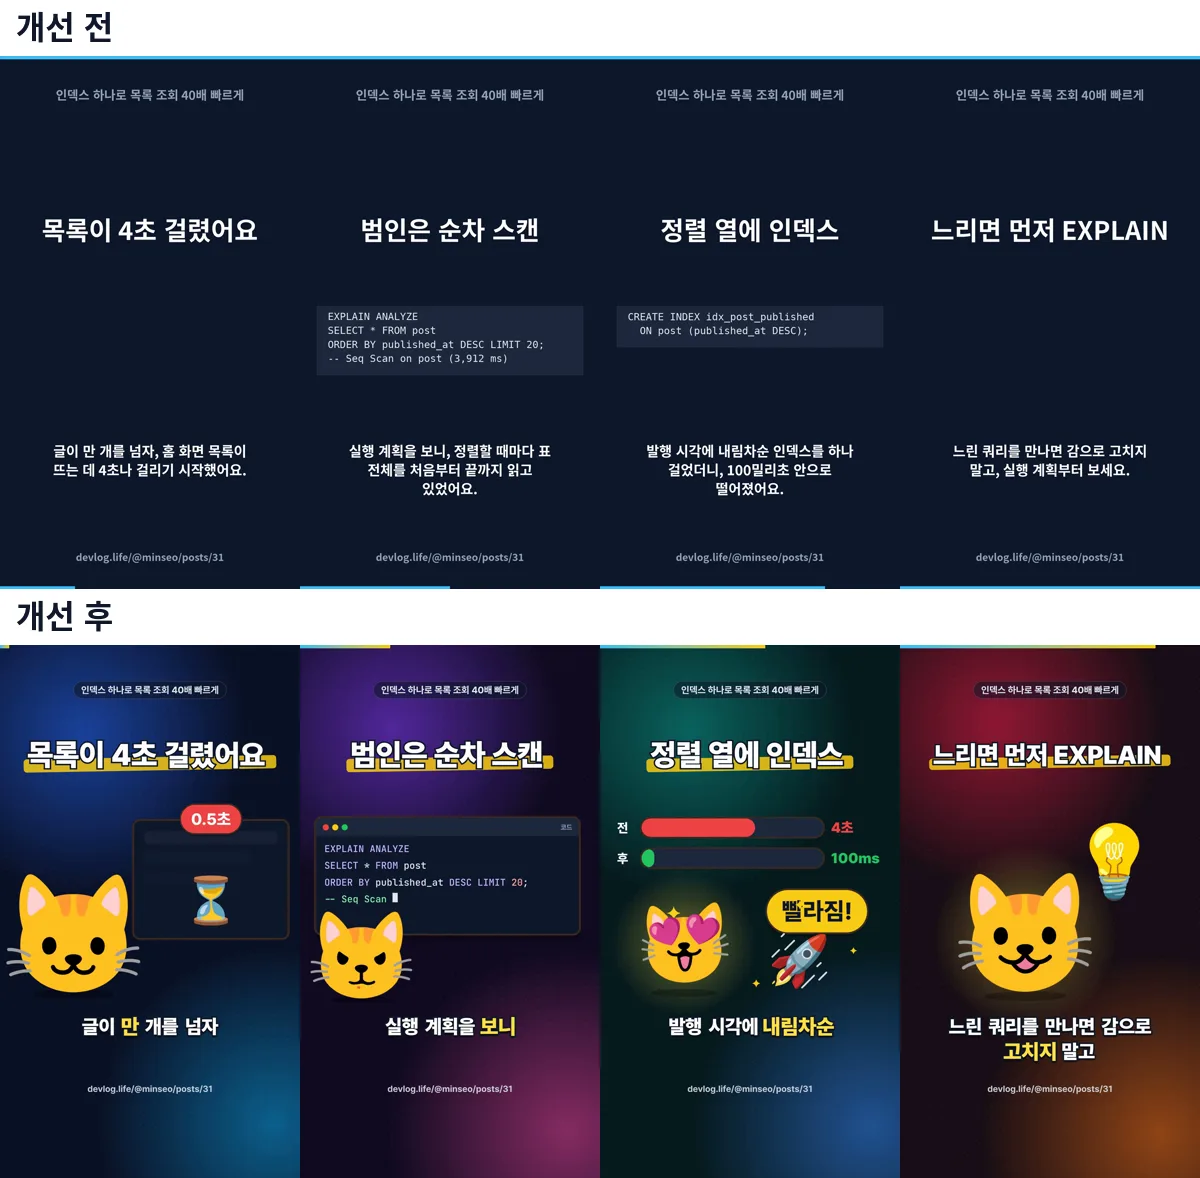
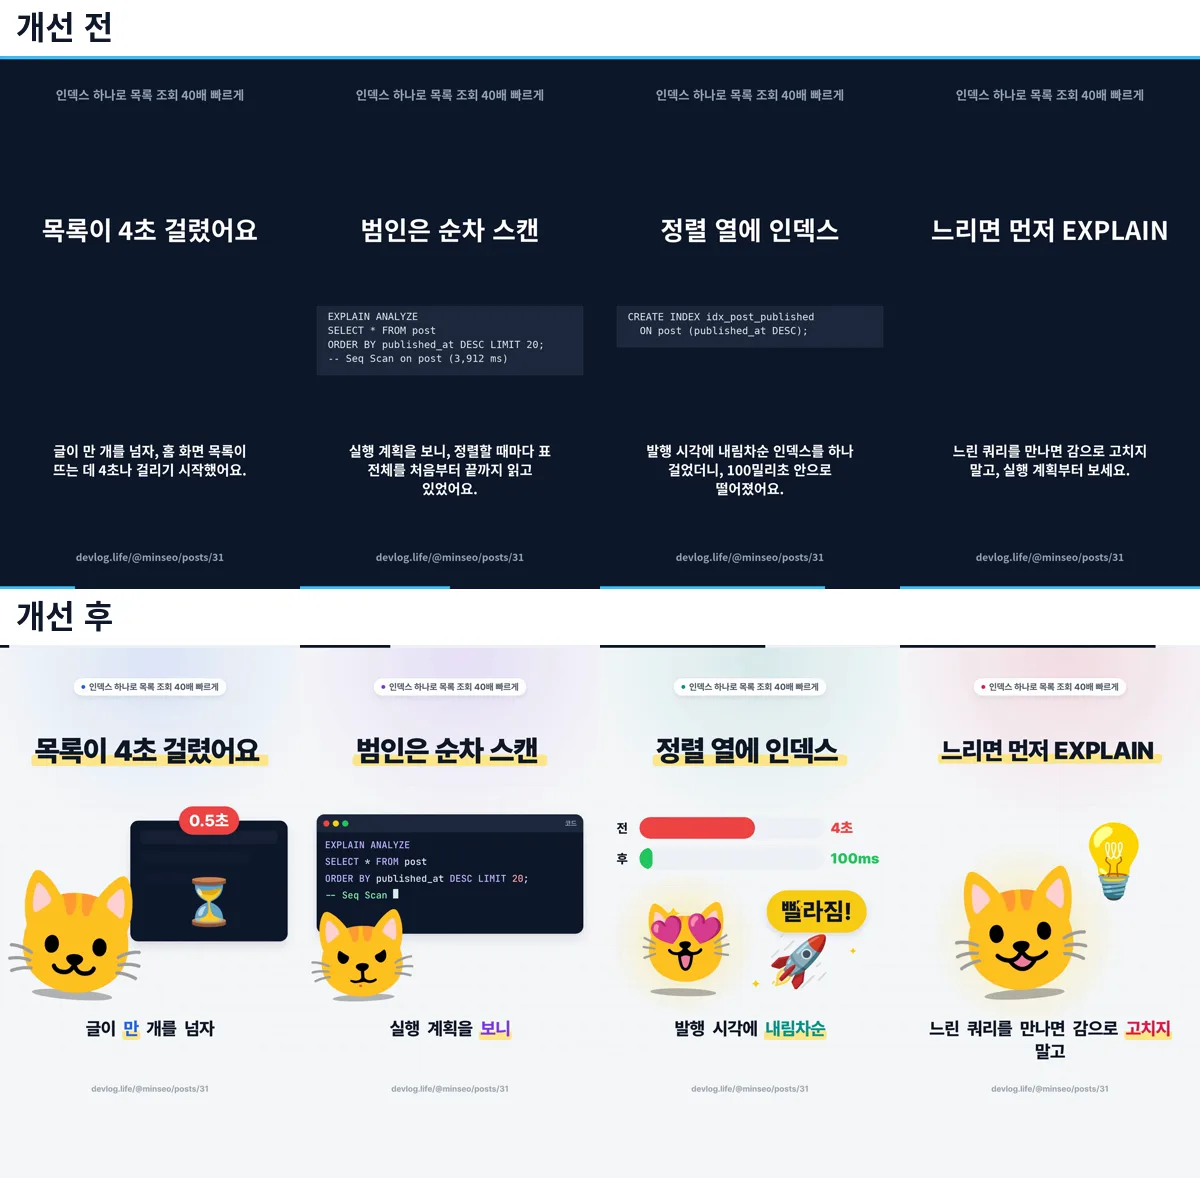
render-worker: 맞춤 장면에 장면 번호 넘기기, 새 스타일 견본 이미지 (#277)
재현 장면이 accent(index)로 같은 강조색을 쓰도록 CustomSceneProps에 index를 더한다(#273과 같은 줄).

Claude-Session: https://claude.ai/code/session_01Y8NuZvyFS4arTLvW25ncLP

diff --git a/app/render-worker/remotion/src/Scene.tsx b/app/render-worker/remotion/src/Scene.tsx
@@ -53,7 +53,7 @@ export const Scene: React.FC<{scene: SceneData; index: number; title: string; fo
       ) : null}
       <div style={{position: 'absolute', top: layout.stageTop, left: 0, width: layout.stageWidth, height: layout.stageHeight, transformOrigin: '50% 60%',
         scale: String(punch)}}>
-        {Custom ? <Custom scene={scene} data={scene.custom?.data} /> : scene.diagram ? <DiagramStage scene={scene} tint={tint} /> :
+        {Custom ? <Custom scene={scene} data={scene.custom?.data} index={index} /> : scene.diagram ? <DiagramStage scene={scene} tint={tint} /> :
           <Act scene={scene} first={index === 0} />}
       </div>
       <Captions pages={scene.pages} leadFrames={scene.leadFrames} top={layout.captionTop} color={tint} />

diff --git a/app/render-worker/remotion/src/custom.tsx b/app/render-worker/remotion/src/custom.tsx
@@ -5,6 +5,6 @@
 import type React from 'react';
 import type {SceneData} from './types';
 
-export type CustomSceneProps = {scene: SceneData; data: unknown};
+export type CustomSceneProps = {scene: SceneData; data: unknown; index?: number};
 
 export const CUSTOM_SCENES: Record<string, React.FC<CustomSceneProps>> = {};

diff --git a/CHANGELOG.md b/CHANGELOG.md
@@ -42,6 +42,7 @@ main에 이 파일의 맨 위 버전이 새로 들어오면 `.github/workflows/r
 ![쇼츠 품질 전후: useEffect](https://raw.githubusercontent.com/AIGJ-01-002-blog/devlog/main/assets/releases/unreleased/shorts-quality-react-effect.webp)
 ![쇼츠 품질 전후: 인덱스](https://raw.githubusercontent.com/AIGJ-01-002-blog/devlog/main/assets/releases/unreleased/shorts-quality-pg-index.webp)
 ![고양이 연기 11가지](https://raw.githubusercontent.com/AIGJ-01-002-blog/devlog/main/assets/releases/unreleased/shorts-character-actions.webp)
+![CS 설명 도식: 캐시는 왜 빠를까](https://raw.githubusercontent.com/AIGJ-01-002-blog/devlog/main/assets/releases/unreleased/shorts-cs-diagram.webp)
 
 ## [2.0.0] - 2026-10-14
 
